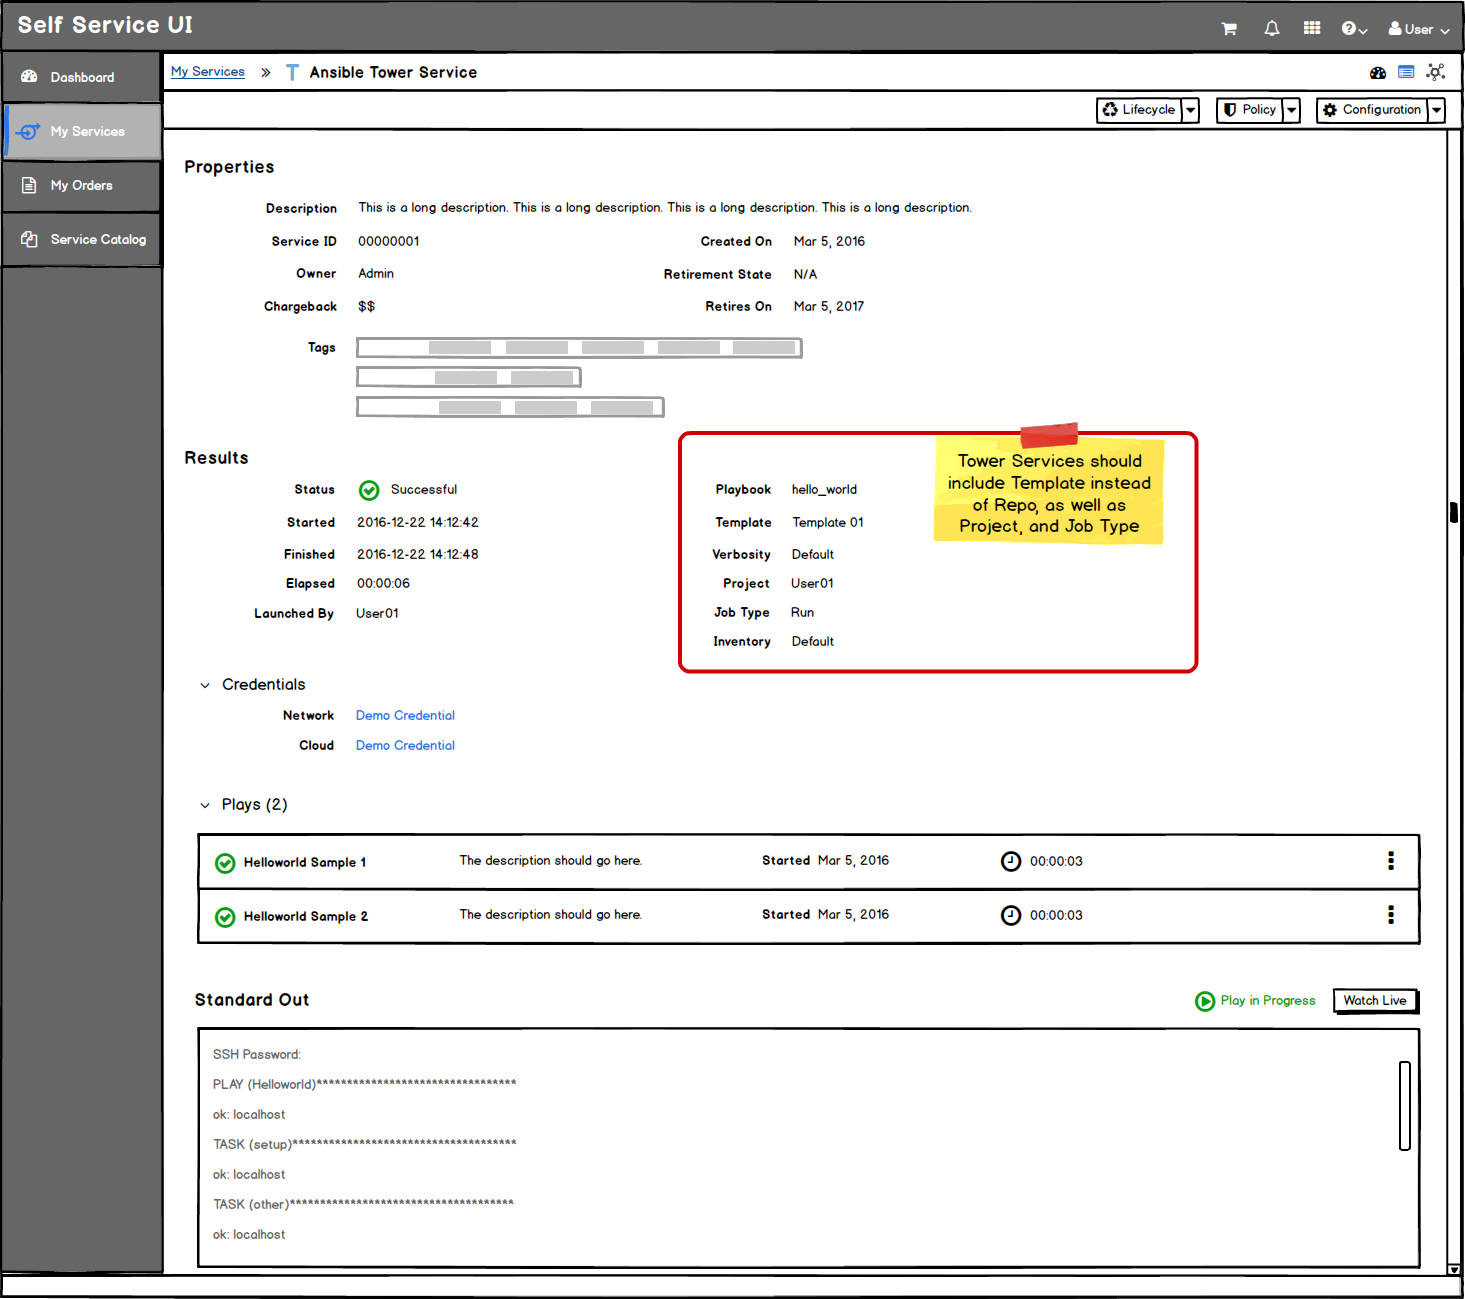
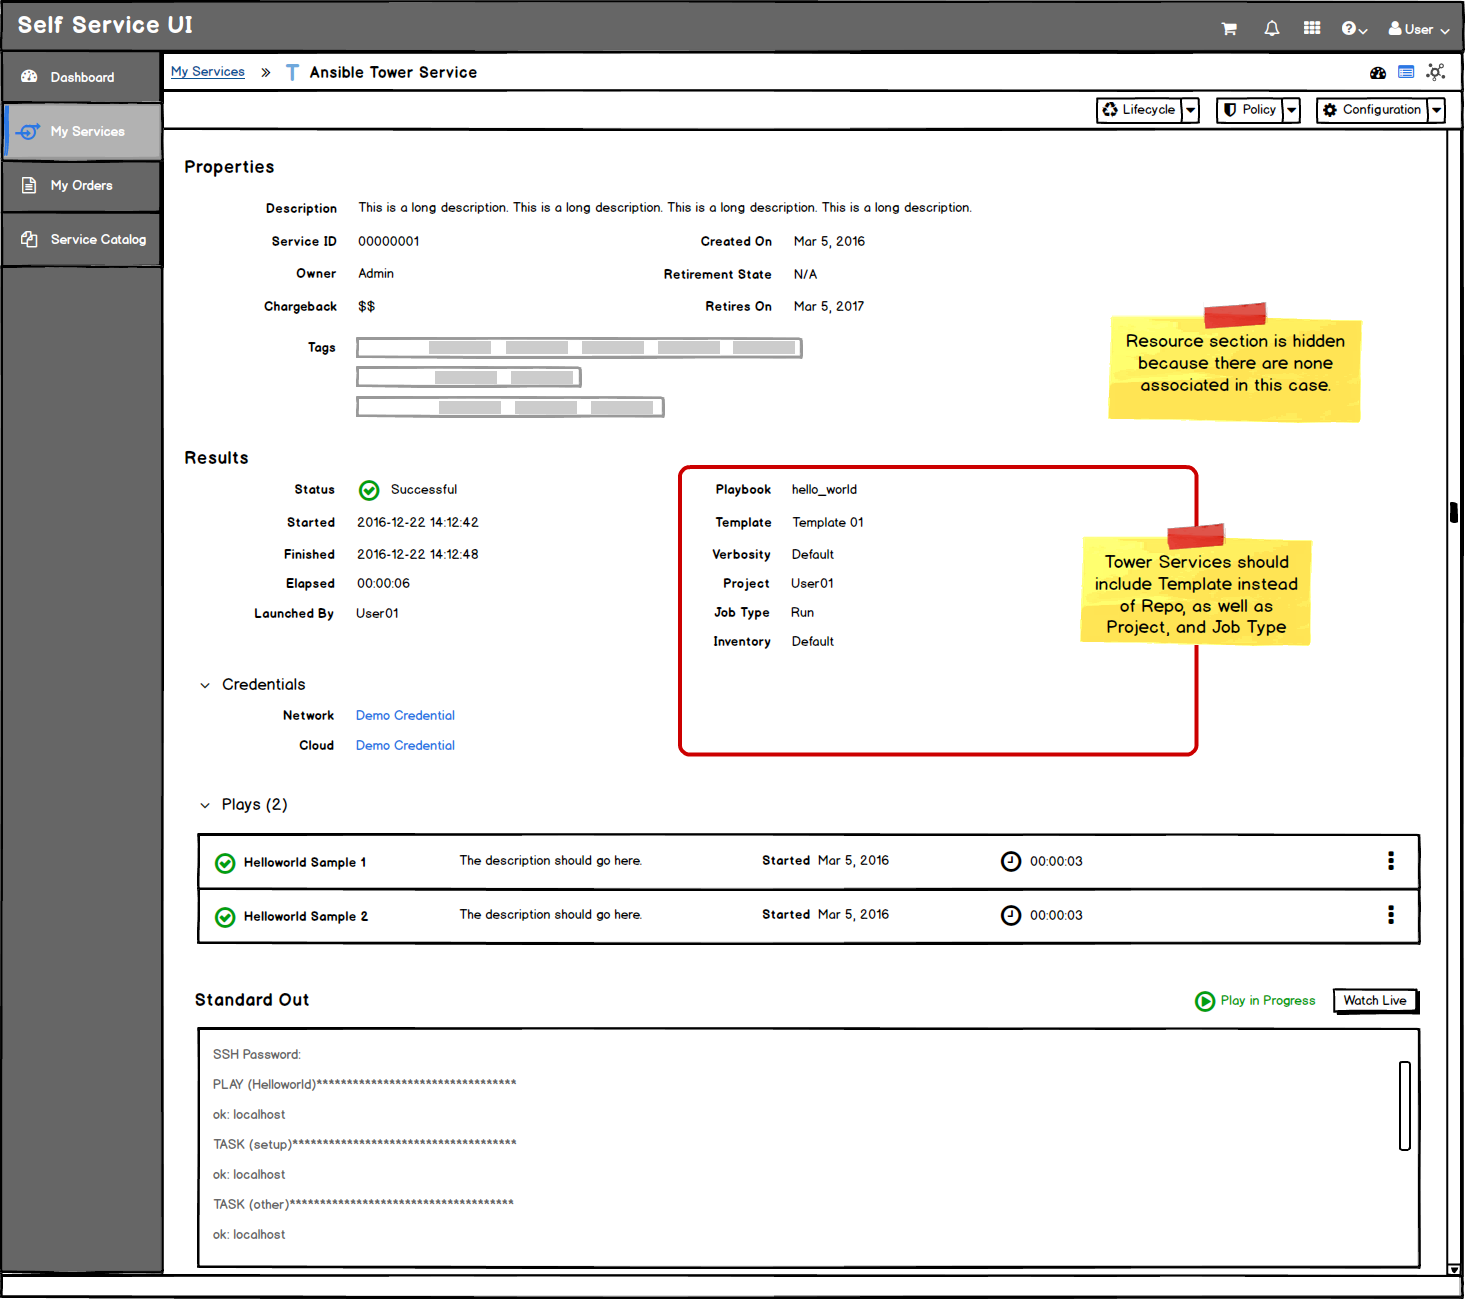
Updating My Services to combine the legacy, Ansible, and Ansible Tower Service designs into one area

Changed region(s): [[0.4608, 0.2156, 0.9522, 0.5851], [0.4608, 0.3079, 0.4915, 0.3695]]

diff --git a/UX/ui-service/MyServices/design.md b/UX/ui-service/MyServices/design.md
@@ -29,36 +29,44 @@
 * The service details will include the following view types: summary view, utilization dashboard, and topology view. The default should be the Summary View.
 
 ### Service Details - Summary View
-* Actions can be accessed through the button groups at the top of the page.
-* Custom button groups will be added to the left of the standard button groups. Button labels should be included in this view.
-* The properties section at the top of the summary view will be consistent for ALL services.
-![Image of Detail View for a Service.](img/Services-GenericDetailView.png)
-* Properties will consist of general information, including tags. Utilization properties will be excluded from this section and will show up in the dashboard view instead.
-* The next section of the summary view will vary depending on the type of service the user has selected. For legacy services there will be a resources section and for Ansible services there will be a Results section.
+* Actions can be accessed through the button groups at the top of the page. Custom button groups will be added to the left of the standard button groups. Button labels should be included in this view.
+* The following sections will be displayed on the summary view page:
+  1. **Properties:**
+    ![Image of Detail View for a Service.](img/Services-GenericDetailView.png)  
 
-#### Service Details - Summary View - Legacy Services
-* For legacy services, the next section under the properties will be the resources.
-![Image of Detail View for a Legacy Service.](img/Services-LegacyDetailView.png)
-* Resources will be divided into sections or headings (Compute, Network, and Storage). Each section can expand and collapse, with a compact list view of resources underneath.
+    * The properties section at the top of the summary view will be consistent for ALL services.
+    * Properties will consist of general information, including tags. Utilization properties will be excluded from this section and will show up in the dashboard view instead.
 
-* Individual resources will be listed as links so users can drill down to a specific resource details view.
-* The resources list view will have access control actions available for launching a console and all other resource actions will be listed under the kebab menu.
-![Image of Detail View for a Resource.](img/Services-ResourceDetails.png)
-* Relationships will be the next section after Resources. Child Services will be listed as links here and will bring the user to the Child Service Summary View.
+  2. **Resources** (optional):
+    ![Image of Detail View for a Legacy Service.](img/Services-LegacyDetailView.png)
 
-#### Service Details - Summary View - Ansible Services
-* For Ansible services, the next section under the properties will be the results and standard out.
-![Image of Detail View for an Ansible Service.](img/Services-AnsibleDetailView.png)
-* The Results section will have a basic set of information regarding the service, including a credentials section for machine credentials, network credentials, cloud credentials etc.
-* This basic set of information will include additional fields for Ansible Tower Services
-![Image of Detail View for an Ansible Tower Service.](img/Services-AnsibleTowerDetailView.png)
-* The basic information is followed by a compact list view of plays from the most recent play.
-* The Standard Out section will include a log of the most recent information available from the time the page was loaded. If the play is still in progress, a status will appear on the right, along with a button to "Watch Live" details of the play. This live version will be displayed in a modal.
+    * Resources will be divided into sections or headings (Compute, Network, and Storage). Each section can expand and collapse, with a compact list view of resources underneath.
+    * If no resources exist for a particular service, this section should be **hidden.**
+    * The resources list view will have access control actions available for launching a console and all other resource actions will be listed under the kebab menu.
+    * Individual resources will be listed as links so users can drill down to a specific resource details view.
 
-#### Child Service - Summary View
-![Image of Detail View for a Child Service.](img/Services-ChildDetailView.png)
-* The breadcrumbs will change to show My Services and the Parent Service as links.
-* The service details page will be in the same format as the Parent Service Detail page.
+    ![Image of Detail View for a Resource.](img/Services-ResourceDetails.png)
+
+  3. **Results** (optional):
+    * This section is only displayed for Ansible and Ansible Tower services. For legacy services, this section should be hidden.
+
+    ![Image of Detail View for an Ansible Service.](img/Services-AnsibleDetailView.png)
+
+    * The Results section will have a basic set of information regarding the service, including a credentials section for machine credentials, network credentials, cloud credentials etc.
+    * This basic set of information will include additional fields for Ansible Tower Services
+
+    ![Image of Detail View for an Ansible Tower Service.](img/Services-AnsibleTowerDetailView.png)
+
+    * The basic information is followed by a compact list view of plays from the most recent play.
+    * The Standard Out section will include a log of the most recent information available from the time the page was loaded. If the play is still in progress, a status will appear on the right, along with a button to "Watch Live" details of the play. This live version will be displayed in a modal.  
+  4. **Relationships:**
+    * Child Services will be listed as links here and will bring the user to the Child Service Summary View.
+
+    ![Image of Detail View for a Child Service.](img/Services-ChildDetailView.png)
+
+    * The breadcrumbs will change to show My Services and the Parent Service as links.
+    * The service details page will be in the same format as the Parent Service Detail page.
+
 
 ### Service Details - Dashboard View
 * The dashboard view will display a utilization trend card with the CPU, Memory, and Storage data.
